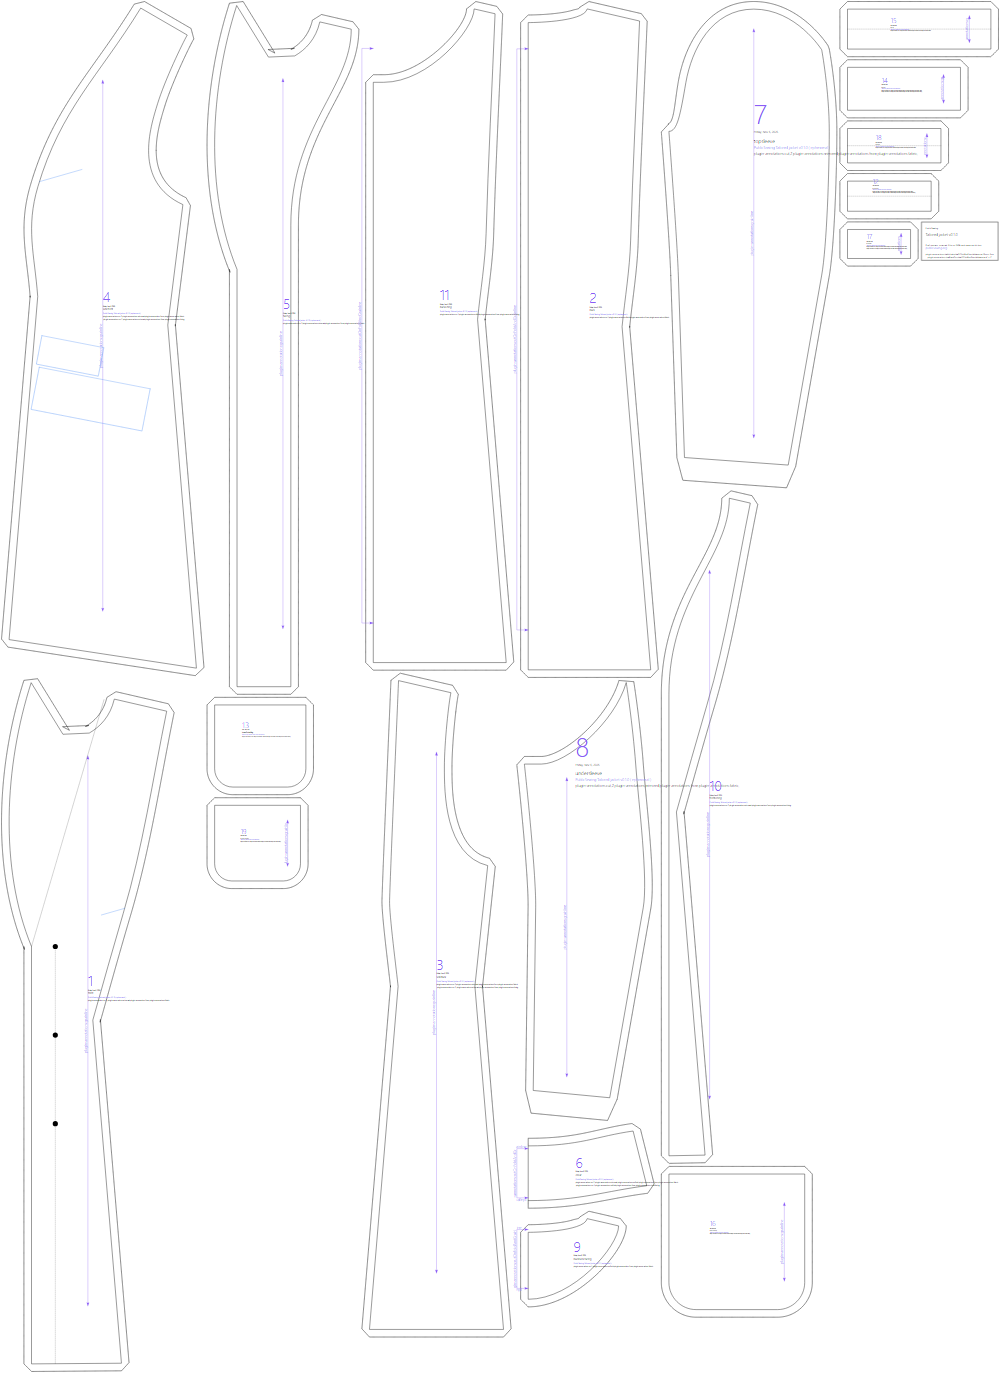
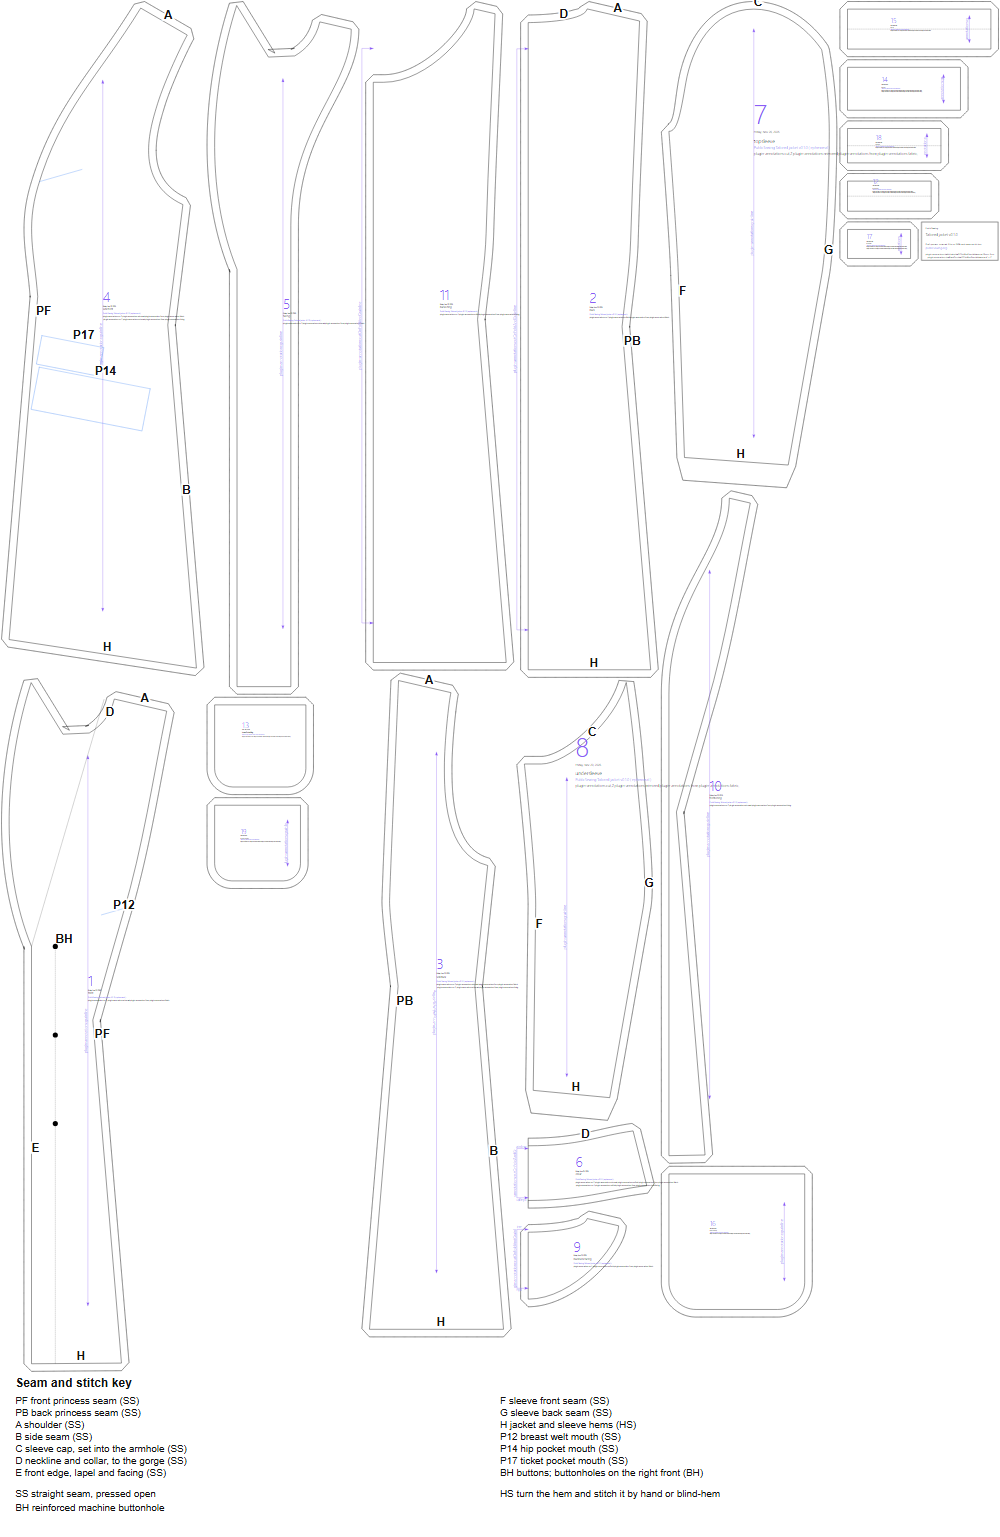
Map the princess-seamed tailored jacket
Princess seams, shoulders across both panels, flap and welt pockets, linings
numbered. Kimono jacket, three-piece long coat and women's peacoat opt out of
the inherited map until mapped.

diff --git a/designs/tailored-jacket/BRIEF.md b/designs/tailored-jacket/BRIEF.md
@@ -57,24 +57,15 @@ shoulder and the waist, so the princess seams follow the darts.
 | Lining | (not drafted) | `lining` on: front lining from the facing's inner edge to the princess seam; back lining below the back-neck facing, on the fold with `liningPleat` 1.4% of chest extra at the CB (a pleat); side back, side front and both sleeve pieces cut again in lining |
 
 ## Construction order
-1. Back to side backs, front to side fronts (princess seams); CB.
-2. Pockets (marked on the panels):
-   - breast welt, across the front seam: interface the welt, fold it lengthwise, lay it below
-     the mouth line (raw edges up), a bag piece above; stitch both, cut between, turn the bag
-     through, press the welt up over the mouth, sew its ends down, then the bags together;
-   - hip and ticket pockets on the side fronts: make up each flap (fabric and lining, round
-     three sides; turn); flap above the mouth line, the folded jet below; stitch, cut, turn the
-     jet to a single piping and the flap down; a bag piece to each, then the bags together.
-3. Shoulders, side seams.
-4. Collar to the neckline up to the gorge; front facings and the back-neck facing joined at
-   the shoulders, then to the fronts, lapels and back neck, the collar's under side to the
-   facings' gorge.
-5. Sleeves: the two pieces together, then set into the armhole, easing the cap.
-6. Lining: front linings, side fronts, side backs and back lining together (the back's CB
-   pleat folded and tacked at the neck and waist); sleeve linings made up and set in; the
-   lining sewn to the facings' inner edges.
-7. Hem the jacket and sleeves; hem the lining to the jacket's hem allowance, leaving an ease
-   fold. Buttonholes on the right front, buttons on the left.
+Letters are the seam and placement codes on the pattern map; numbers are printed on the pieces. **SS** straight seam pressed open, **HS** hem stitch, **BH** machine buttonhole.
+
+1. Sew the princess seams: the back **2** to the side backs **3** at **PB**, the fronts **1** to the side fronts **4** at **PF**. The back is cut on the fold.
+2. Pockets, at the marked mouths: the breast welt **P12** across the seam between front **1** and side front (welt **12**, bag **13**): interface the welt, fold it lengthwise, lay it below the mouth line with a bag piece above, stitch both, cut between, turn the bag through, press the welt up and sew its ends down, then the bags together. The hip and ticket pockets on the side fronts **4** at **P14** and **P17** (flaps **14**, **17**, jets **15**, **18**, bags **16**, **19**): make up each flap, lay it above the mouth line and the folded jet below; stitch, cut, turn the jet to a single piping and the flap down; a bag piece to each, then the bags together.
+3. Sew the shoulders **A** across the front **1**, side front **4**, back **2** and side back **3**, then the side seams **B**.
+4. Sew the collar **6** to the neckline **D** of the fronts **1** and back **2** up to the gorge. Join the front facings **5** and back-neck facing **9** at the shoulders, then sew them to the front edges and lapels **E** and the back neck, the collar's under side to the facings' gorge.
+5. Sleeves: join the top sleeve **7** and under sleeve **8** at **F** and **G**, then set them into the armhole at **C**, easing the cap.
+6. Lining: front linings **10** and back lining **11** together with the side panels cut from them (the back's CB pleat folded and tacked at the neck and waist); make up the sleeve linings and set them in; sew the lining to the facings' **5** inner edges.
+7. Turn up the hems **H** of the jacket (**1**, **2**, **3**, **4**) and sleeves **7**, **8** with **HS**; hem the lining to the jacket's hem allowance, leaving an ease fold. Work the buttonholes **BH** on the right front and sew the buttons on the left.
 
 ## Changes and what isn't modelled
 - **CB on the fold.** Mitchell's CB is a seam, shaped 1" at the waist. The waist shaping here
